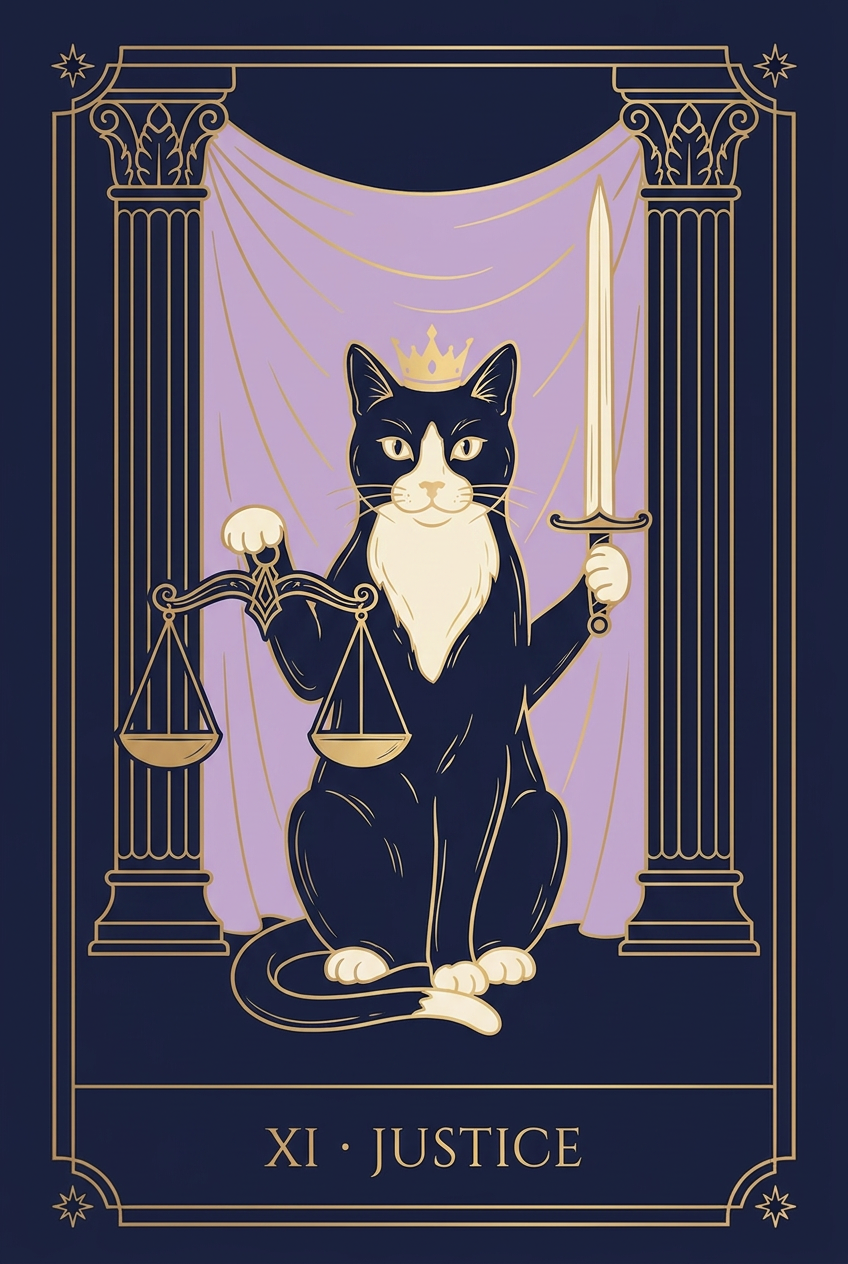
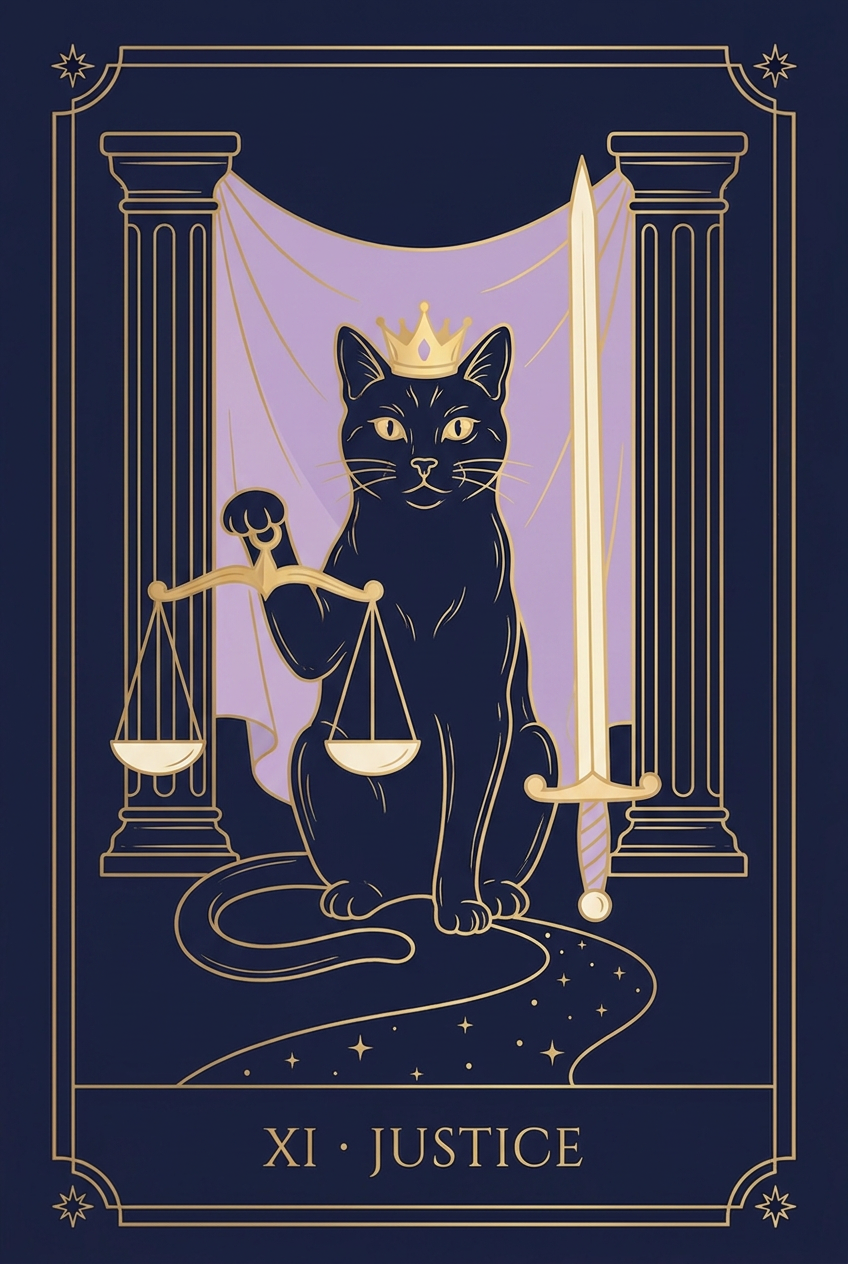
update: XI 저스티스(앞발 오류)·XIII 데스(원작 구도로) 재생성 반영

diff --git a/planning/06_타로카드.md b/planning/06_타로카드.md
@@ -9,6 +9,13 @@
 - 전 카드 1k 해상도(약 848×1264), 2:3 비율, 골드라인 셀레스티얼 스타일 통일
 - 스팟 검수 완료 (0·XIII·XVII 확인 — 스타일 일관성, 캡션, 팔레트 정상). 랜딩 적용 시 어긋난 카드 발견되면 레퍼런스 job으로 개별 재생성
 
+## 수정 이력 (사용자 검수 반영, 2026-07-14)
+
+| 카드 | 피드백 | 반영 |
+|---|---|---|
+| XI Justice | 고양이 앞발이 3개 (해부학 오류) | 재생성 — 저울 든 앞발 + 바닥 앞발 2개로 수정, 검은 옆에 세운 구도 |
+| XIII Death | 원작(라이더-웨이트)에 가깝게 — 남녀노소·왕·교황 누구도 지나칠 수 없는 존재 | 재생성 — 해골 투구 기사가 백마를 타고, 그 앞에 쓰러진 왕·간청하는 교황·아이·여인 배치. 1차 재생성에서 기사가 2명으로 분리되어 "단일 기사" 조건으로 2차 재생성 |
+
 ---
 
 ## 1. 범위 결정
